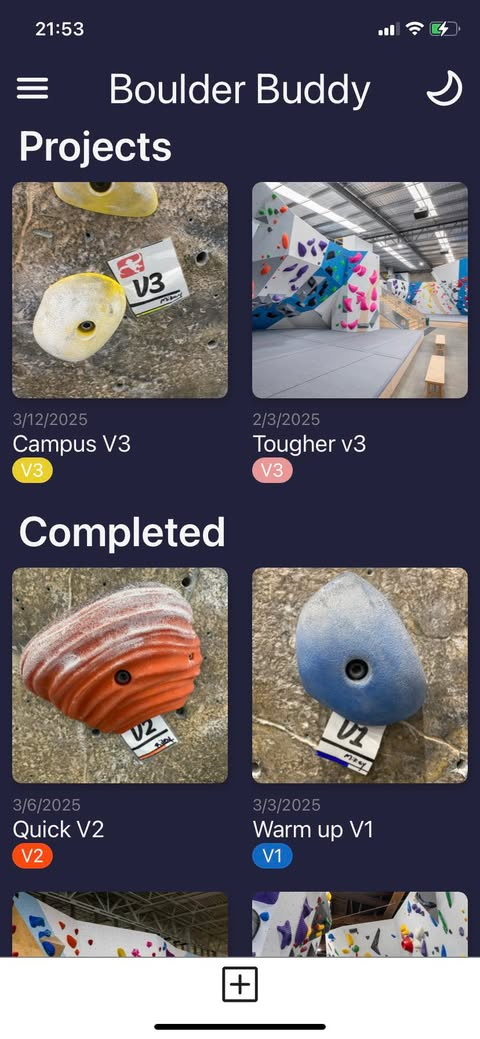
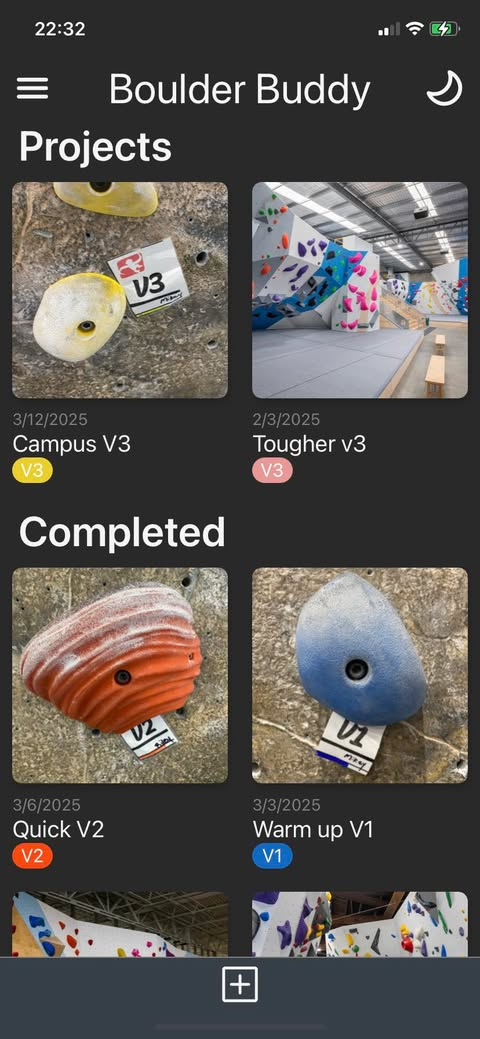
Update to dark UI and README

Changed region(s): [[0.0, 0.8932, 1.0, 1.0], [0.0625, 0.0, 0.1875, 0.0616], [0.9062, 0.0, 0.9375, 0.0308]]

diff --git a/app/index.jsx b/app/index.jsx
@@ -165,7 +165,7 @@ export default function Index() {
           <AntDesign
             name="plussquareo"
             size={35}
-            color={theme.black}
+            color={theme.text}
             selectable={undefined}
             style={{ width: 35 }}
           />
@@ -267,12 +267,11 @@ function createStyles(theme, colorScheme) {
       alignItems: "center",
       //height: 44,
       bottom: 0,
-      backgroundColor: colorScheme === "dark" ? "light" : "dark",
+      backgroundColor: theme.footer,
       borderTopColor: "grey",
       borderTopWidth: 1,
       paddingTop: 5,
       paddingBottom: 30,
-      backgroundColor: "white",
     },
   });
 }

diff --git a/constants/Colors.js b/constants/Colors.js
@@ -8,12 +8,13 @@ const purple = "#463665";
 const black = "#1E1E1E";
 const white = "#F5F5F5";
 const lightBackground = "#F2E9E4";
-const darkBackground = "#22223B";
+const darkBackground = "#292929";
 
 export const Colors = {
   light: {
     text: black,
     background: lightBackground,
+    footer: "white",
     pink: "#EA9997",
     orange: "#FA490A",
     yellow: "#EBCF2C", // secondary
@@ -27,6 +28,7 @@ export const Colors = {
   dark: {
     text: white,
     background: darkBackground,
+    footer: "#373F47",
     pink: "#EA9997",
     orange: "#FA490A",
     yellow: "#EBCF2C", // secondary
